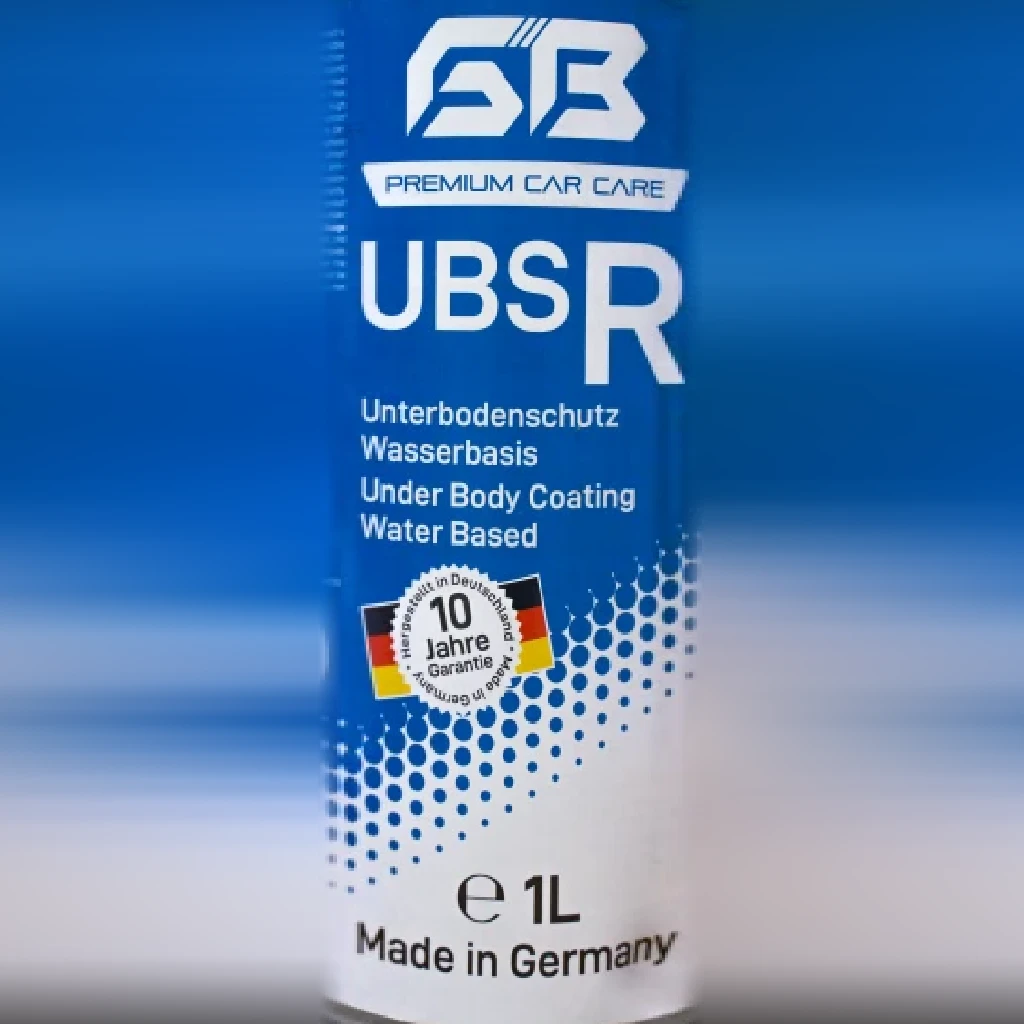
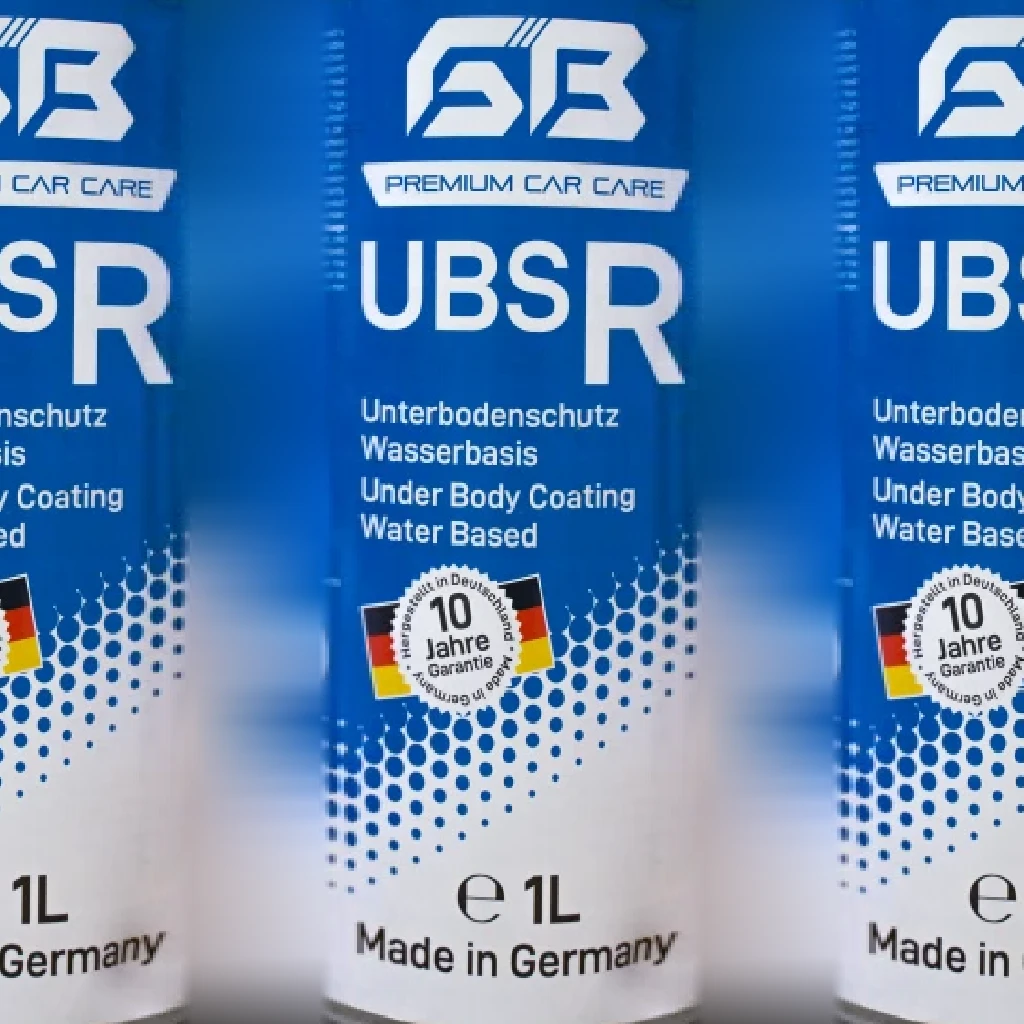
Can label printed on the back as well as the front

diff --git a/js/phu-gam-worker.js b/js/phu-gam-worker.js
@@ -126,11 +126,12 @@ function mistMaterial() {
 
 // GB's can: the label is the shop's own product photo (the user: change the coating to this one), unwrapped round
 // the can by a tool kept outside the repo into assets/phu-gam/can-label.webp. u runs round the can with the front
-// of the label at u = 0.5, v from the base (0) to the shoulder (1). One texture, shared by every can in the shop.
+// of the label at u = 0.5 and the same label again on the back (the user: the back like the front), v from the base
+// (0) to the shoulder (1). One texture, shared by every can in the shop.
 let label = null;
 export function canLabel() {
   if (!label) {
-    label = new THREE.TextureLoader().load("assets/phu-gam/can-label.webp?v=2");
+    label = new THREE.TextureLoader().load("assets/phu-gam/can-label.webp?v=3");
     label.colorSpace = THREE.SRGBColorSpace;
     label.anisotropy = 4;
   }
